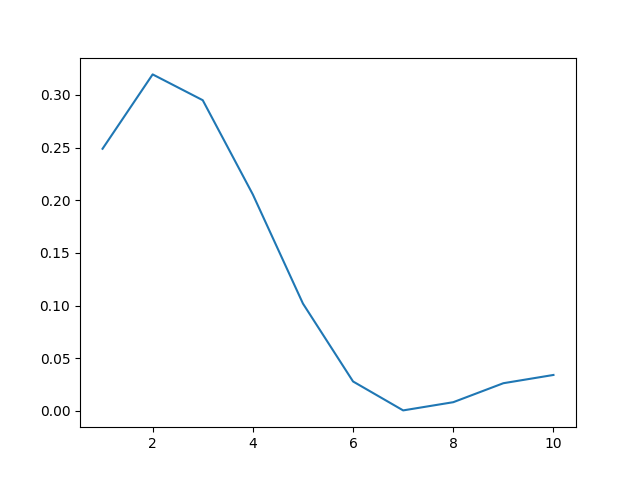
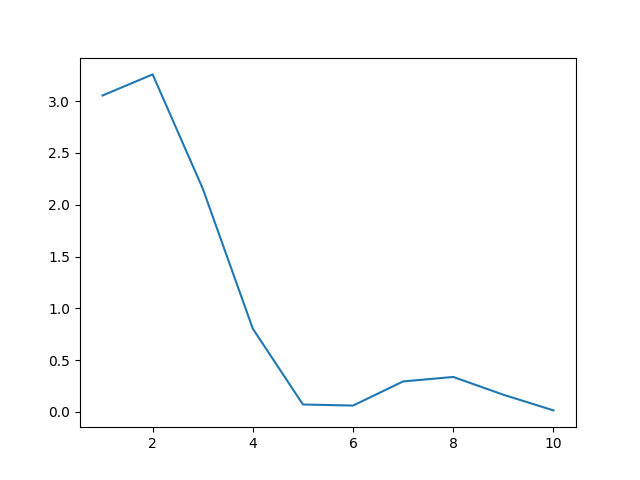
legendre works now

diff --git a/legendre3.py b/legendre3.py
@@ -1,0 +1,48 @@
+from matplotlib import pyplot as plt
+from scipy.special import eval_legendre as lg
+from scipy.integrate import quad
+import numpy as np
+
+
+# equation 23 in its 2 forms
+
+def integrand1(theta, l):
+    return np.power(((2.0*l + 1)/(4.0*np.pi)), 1.0/2.0)*lg(l, np.cos(theta))*np.sin(theta)
+
+def e23_1(l, ad):
+    return (2*np.pi)*(quad(integrand1, 0, ad, args=(l))[0])
+
+def integrand2(x, l):
+    return lg(l, x)
+
+def e23_2(l, ad):
+    return np.power((np.pi*(2*l+1)), (1.0/2.0))*(quad(integrand2, np.cos(ad), 1, args=(l))[0])
+
+# equation 26 function
+
+def e26(l, ad):
+    a = (np.power(np.pi*(2.0*l + 1.0), (1.0/2.0)))/np.float(l)
+    b = np.cos(ad)*lg(int(l), np.cos(ad))
+    c = lg(int(l+1), np.cos(ad))
+    return a*(b-c)
+
+
+
+
+
+def y(l, alphad, ad):
+    # return (abs(e26(l, ad))**2)/float(ad)
+    # return (abs(e23_1(l, ad))**2)/float(ad)
+    return (abs(e23_2(l, alphad))**2)/ad
+
+def alpha(n, ad):
+    return (np.arccos(1-((2.0*ad)/n)))
+
+a = []
+b = []
+for i in range(1,11):
+    a.append(y(i, alpha(1, 0.1), 0.1))
+    b.append(i)
+plt.plot(b, a)
+print(a)
+plt.savefig('lg.png')
